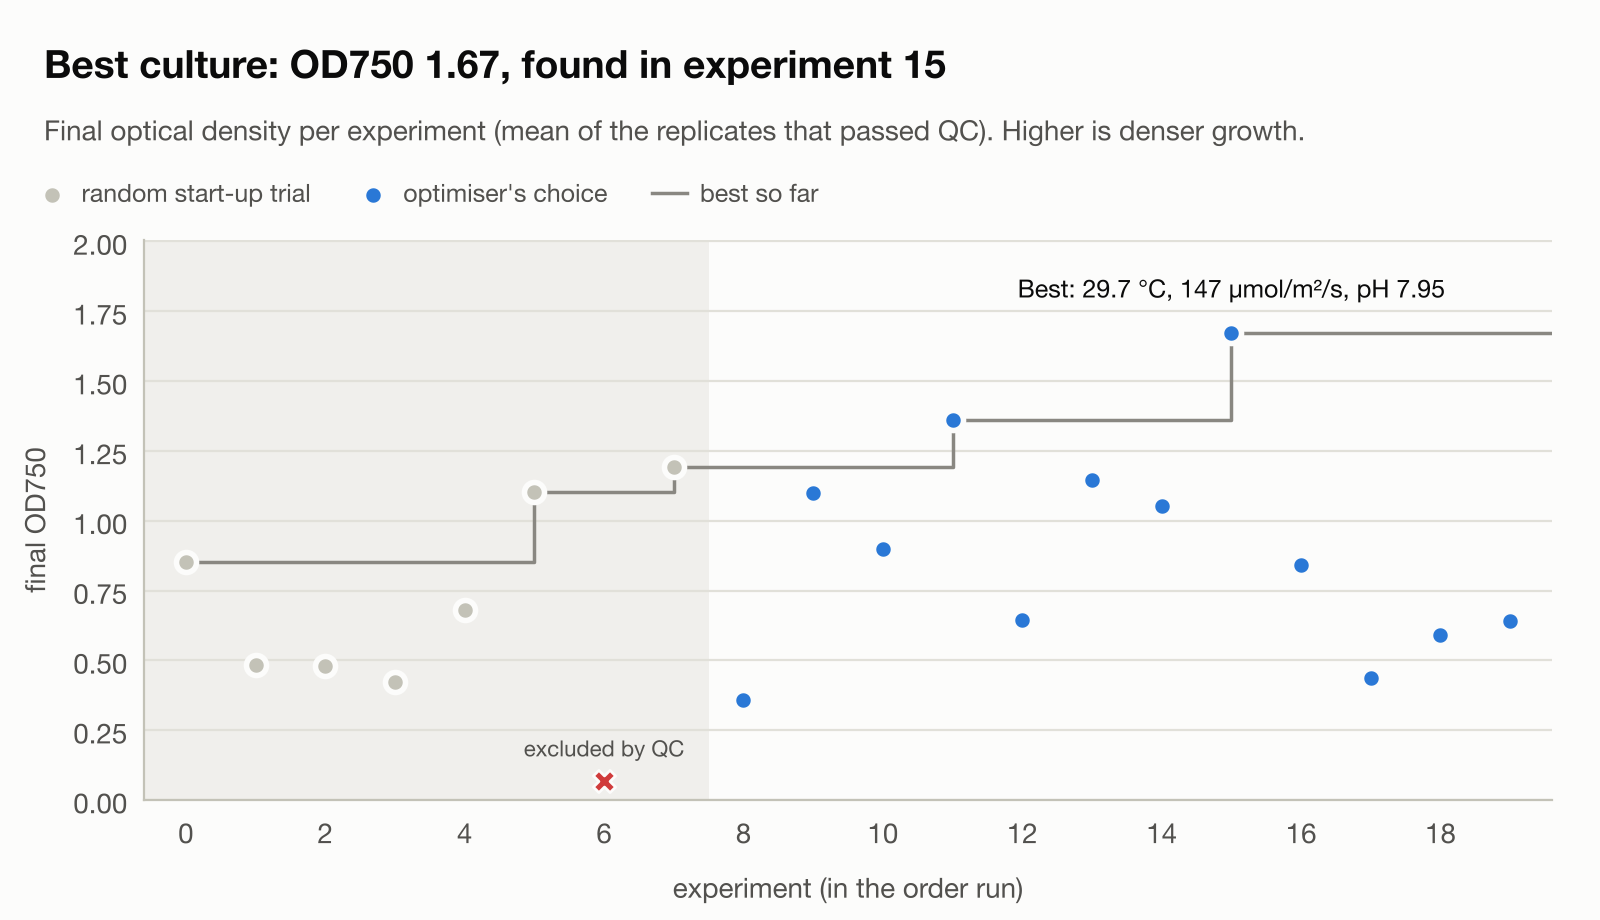
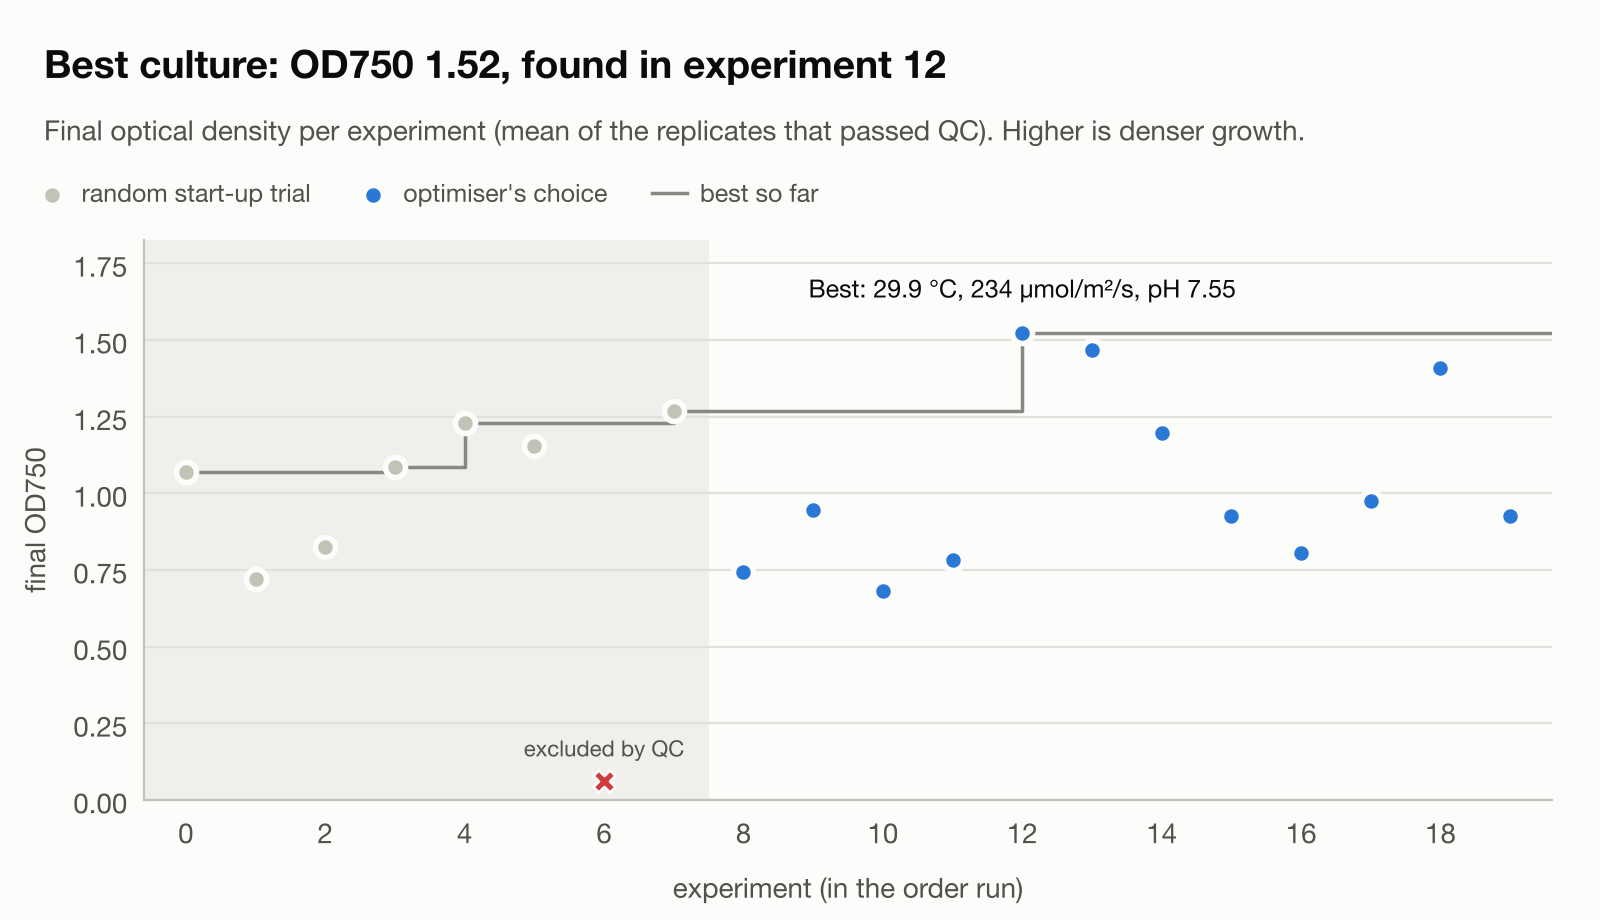
Take Chlorella light curve and pH limits from primary sources
Light: replace the Steele curve with the curve Schwaderer et al. 2011
fitted to C. vulgaris data (Bernard-Remond form; I_opt 142, I_k 23.5), so
bright light costs some growth (0.84 at 400) rather than most (0.46).
pH: cardinal limits 3.0 / 7.5 / 9.0 from Choi & Lee 2011 measurements,
replacing illustrative 5.5 / 7.8 / 10.

New tests pin both curves to the published values. model.md records the
sources, an independent temperature check against Choi & Lee, and where
sources disagree (bright light, pH 9, a stressed-reactor strain).

diff --git a/algae_sim/growth.py b/algae_sim/growth.py
@@ -4,7 +4,9 @@
 
 * f_T: cardinal temperature model with inflection (Rosso et al. 1993), 0 outside
   [t_min, t_max], 1 at t_opt.
-* f_I: Steele photoinhibition curve, peaks at i_opt and declines above it.
+* f_I: light response with photoinhibition (Bernard & Remond 2012 form; "Model 2"
+  in Schwaderer et al. 2011): rises with initial slope set by i_k, is 1 at i_opt,
+  then declines slowly in bright light.
 * f_pH: the pH response, passed in as ``ph_response`` (see ``algae_sim.carbon``);
   1.0 means pH is not modelled.
 * logistic term: crude stand-in for self-shading and nutrient limits.
@@ -17,7 +19,6 @@ not a fit to one strain, and the model itself is still not validated.
 
 from __future__ import annotations
 
-import math
 from dataclasses import dataclass
 
 
@@ -28,9 +29,11 @@ class GrowthParams:
     t_min_c: float = 2.2  # cardinal temperatures: Rossi et al. 2023, mean of 13 data sets
     t_opt_c: float = 28.9
     t_max_c: float = 42.8
-    # Schwaderer et al. 2011 (Haldane fit). The Steele curve with this optimum
-    # over-penalises bright light compared with Pozzobon 2022: pending a better source.
+    # Light curve fitted to C. vulgaris growth data (Dauta et al. 1990) by Schwaderer
+    # et al. 2011, web appendix: I_opt 142.1, mu_max 0.94 /day, alpha 0.040.
     i_opt_umol_m2_s: float = 142.0
+    # i_k = mu_max / alpha: the irradiance scale of the initial slope (0.94 / 0.040).
+    i_k_umol_m2_s: float = 23.5
     carrying_capacity_g_per_l: float = 2.3  # lab batch with CO2 (Griffiths 2011)
     basal_loss_per_h: float = 0.007  # maintenance, C. sorokiniana (Kliphuis et al. 2011)
     heat_stress_loss_per_h_per_c: float = 0.05  # illustrative
@@ -38,8 +41,8 @@ class GrowthParams:
     def __post_init__(self) -> None:
         if not self.t_min_c < self.t_opt_c < self.t_max_c:
             raise ValueError("require t_min < t_opt < t_max")
-        if self.mu_max_per_h <= 0 or self.i_opt_umol_m2_s <= 0:
-            raise ValueError("mu_max and i_opt must be positive")
+        if min(self.mu_max_per_h, self.i_opt_umol_m2_s, self.i_k_umol_m2_s) <= 0:
+            raise ValueError("mu_max, i_opt and i_k must be positive")
         if self.carrying_capacity_g_per_l <= 0:
             raise ValueError("carrying capacity must be positive")
 
@@ -57,11 +60,19 @@ def temperature_factor(temperature_c: float, p: GrowthParams) -> float:
 
 
 def light_factor(intensity_umol_m2_s: float, p: GrowthParams) -> float:
-    """Steele curve; dimensionless, 0..1 with a maximum at i_opt."""
+    """Light response; dimensionless, 0..1 with a maximum of exactly 1 at i_opt.
+
+        f(I) = I / (I + i_k * (I / i_opt - 1) ** 2)
+
+    Chosen over the Steele curve because, with C. vulgaris parameters, Steele drops
+    to 0.46 at 400 umol/m2/s, while measured cultures keep most of their growth
+    in bright light (Pozzobon 2022). Choi & Lee 2011 saw stronger losses; see
+    docs/model.md.
+    """
     if intensity_umol_m2_s <= 0:
         return 0.0
-    ratio = intensity_umol_m2_s / p.i_opt_umol_m2_s
-    return ratio * math.exp(1.0 - ratio)
+    i = intensity_umol_m2_s
+    return i / (i + p.i_k_umol_m2_s * (i / p.i_opt_umol_m2_s - 1.0) ** 2)
 
 
 def gross_rate_per_h(

diff --git a/algae_sim/carbon.py b/algae_sim/carbon.py
@@ -20,8 +20,9 @@ alkalinity. That simplification is acceptable for a control demo, not for
 prediction.
 
 Growth responds to pH with a cardinal pH model (Rosso et al. 1995): 0 at ``ph_min``
-and ``ph_max``, 1 at ``ph_opt``. At high pH the fall-off also stands in for carbon
-limitation, because little dissolved CO2 is left at high pH.
+and ``ph_max``, 1 at ``ph_opt``; values from C. vulgaris data (Choi & Lee 2011).
+At high pH the fall-off also stands in for carbon limitation, because little
+dissolved CO2 is left at high pH.
 """
 
 from __future__ import annotations
@@ -55,16 +56,16 @@ class CarbonParams:
 
 @dataclass(frozen=True, slots=True)
 class PhGrowthParams:
-    """Cardinal pH growth response.
+    """Cardinal pH growth response for C. vulgaris (Choi & Lee 2011).
 
-    ``ph_opt`` matches the C. vulgaris optimum of 7.5-8.0 (Rachlin & Grosso 1991).
-    ``ph_min`` and ``ph_max`` are illustrative, pending a source: the same study
-    reports slowed, not stopped, growth down to pH 3.
+    Measured at pH 3-9: best growth at 7-7.5, still good at 5, cells died at 3 and
+    at 9. Rachlin & Grosso 1991 put the optimum at 7.5-8.0, so 7.5 is where the two
+    agree. At high pH the fall-off also stands in for carbon limitation.
     """
 
-    ph_min: float = 5.5
-    ph_opt: float = 7.8
-    ph_max: float = 10.0
+    ph_min: float = 3.0
+    ph_opt: float = 7.5
+    ph_max: float = 9.0
 
     def __post_init__(self) -> None:
         if not self.ph_min < self.ph_opt < self.ph_max:

diff --git a/tests/test_physics.py b/tests/test_physics.py
@@ -55,6 +55,18 @@ class TestGrowth:
         assert light_factor(GP.i_opt_umol_m2_s, GP) == pytest.approx(1.0)
         assert light_factor(400.0, GP) < light_factor(200.0, GP) < 1.0
 
+    def test_light_curve_matches_the_fitted_chlorella_data(self):
+        # Schwaderer et al. 2011 "Model 2" with C. vulgaris mu_max 0.94 /day,
+        # alpha 0.040, I_opt 142.1: rewritten as a fraction of mu_max.
+        def model_2(i, mu=0.94, alpha=0.040, i_opt=142.1):
+            denominator = (mu / (alpha * i_opt**2)) * i**2 + (1 - 2 * mu / (alpha * i_opt)) * i
+            return (mu * i / (denominator + mu / alpha)) / mu
+
+        for intensity in (25.0, 100.0, 400.0, 800.0):
+            assert light_factor(intensity, GP) == pytest.approx(model_2(intensity), abs=0.01)
+        # Bright light costs some growth, not most of it (Pozzobon 2022).
+        assert light_factor(400.0, GP) > 0.8
+
     def test_growth_stops_at_carrying_capacity(self):
         rate = net_rate_per_h(GP.carrying_capacity_g_per_l, GP.t_opt_c, GP.i_opt_umol_m2_s, GP)
         assert rate == pytest.approx(-GP.basal_loss_per_h)

diff --git a/tests/test_ph.py b/tests/test_ph.py
@@ -29,6 +29,12 @@ class TestChemistry:
         assert ph_factor(7.0, PG) < 1.0 and ph_factor(8.5, PG) < 1.0
         assert ph_factor(6.0, PG) < ph_factor(7.0, PG)
 
+    def test_matches_chlorella_measurements(self):
+        # Choi & Lee 2011: best at 7-7.5, still growing at 5, dead at 3 and at 9.
+        assert ph_factor(7.0, PG) > 0.95 and ph_factor(7.5, PG) == pytest.approx(1.0)
+        assert ph_factor(5.0, PG) > 0.5
+        assert ph_factor(3.0, PG) == ph_factor(9.0, PG) == 0.0
+
     @pytest.mark.parametrize("bad", [dict(ph_min=8.0), dict(ph_max=7.0)])
     def test_rejects_disordered_cardinals(self, bad):
         with pytest.raises(ValueError):

diff --git a/docs/model.md b/docs/model.md
@@ -17,8 +17,8 @@ C = 4180 J/K (about 1 L of water), P = 100 W heater, K = 5 W/K loss to a 20 °C 
     dX/dt = μmax · f_T(T) · f_I(I) · f_pH(pH) · X · (1 − X/Xmax) − loss(T) · X
 
 - **f_T**: cardinal temperature model with inflection (Rosso et al., 1993). It's zero at or below 2.2 °C and at or above 42.8 °C, and 1 at the 28.9 °C optimum.
-- **f_I**: Steele light curve. It's 1 at 142 µmol/m²/s and drops at higher light (photoinhibition). This curve penalises bright light more than *C. vulgaris* shows (see below).
-- **f_pH**: cardinal pH model (Rosso et al., 1995). It's zero at or below pH 5.5 and at or above 10, and 1 at the pH 7.8 optimum (about 0.67 at 6.5 and 0.9 at 8.5). The optimum is sourced; the limits are illustrative. The fall-off at high pH also stands in for carbon limitation.
+- **f_I**: light curve with photoinhibition, f(I) = I / (I + I_k·(I/I_opt − 1)²) (Bernard & Rémond 2012 form; Schwaderer et al. 2011 "Model 2"). It's 1 at I_opt = 142 µmol/m²/s, with I_k = μmax/α = 23.5 µmol/m²/s, and keeps 0.84 of its best at 400 µmol/m²/s.
+- **f_pH**: cardinal pH model (Rosso et al., 1995). It's zero at or below pH 3 and at or above 9, and 1 at the pH 7.5 optimum (about 0.9 at 6.5 and 0.73 at 8.5), from *C. vulgaris* measurements (Choi & Lee 2011). The device's own low-pH trip at 5.5 is a protection limit, separate from the biology. The fall-off at high pH also stands in for carbon limitation.
 - **Crowding**: logistic limit Xmax = 2.3 g/L, a crude stand-in for self-shading and nutrients.
 - **Loss**: 0.007 /h maintenance, plus 0.05 /h per °C above 42.8 °C (heat stress, illustrative). The heater can't reach 42.8 °C, so heat stress only matters in tests.
 - μmax = 0.08 /h (about 1.9 per day), starting biomass 0.05 g/L, batch length 36 h.
@@ -58,16 +58,20 @@ Values are literature-typical for *Chlorella vulgaris*, pooled across strains an
 |---|---|---|---|
 | μmax | 0.08 /h (1.9 /day) | Pozzobon 2022, *Algal Research* 68:102874, doi:10.1016/j.algal.2022.102874 (2.11 /day measured at 25 °C, 200 µmol/m²/s); Rossi et al. 2023 (1.7–2 /day) | High |
 | T_min / T_opt / T_max | 2.2 / 28.9 / 42.8 °C | Rossi, Carecci & Ficara 2023, *Sci. Total Environ.* 873:162275, doi:10.1016/j.scitotenv.2023.162275, Table 3: mean of 13 data sets | High for T_opt; T_min is poorly constrained (range −12 to 13 °C) |
-| I_opt | 142 µmol/m²/s | Schwaderer et al. 2011, doi:10.4319/lo.2011.56.2.0589, as tabulated by López Muñoz & Bernard 2021, *Processes* 9:496 | Medium: a Haldane-fit optimum used in a Steele curve |
+| Light curve: I_opt, I_k | 142 µmol/m²/s, 23.5 µmol/m²/s | Schwaderer et al. 2011, *Limnol. Oceanogr.* 56:589, doi:10.4319/lo.2011.56.2.0589, web appendix: *C. vulgaris* fit (μmax 0.94 /day, α 0.040, I_opt 142.1) to Dauta et al. 1990 data, with the same curve form | High for the form and fit; see the light disagreement below |
 | CO₂ per g biomass | 1.83 g/g | Chisti 2007, *Biotechnol. Adv.* 25:294, doi:10.1016/j.biotechadv.2007.02.001 (about 50 % carbon); *C. vulgaris* measured at 48 % (Griffiths 2011 thesis) | High for nitrogen-replete cultures (±20 % with nitrogen status) |
 | OD750 per g/L | 3.2 | Griffiths et al. 2011, *J. Microbiol. Methods* 85:119, doi:10.1016/j.mimet.2011.02.005 | Medium: calibrations vary with pigment and instrument |
 | Xmax | 2.3 g/L | Griffiths 2011 thesis: lab airlift reactor, 0.29 % CO₂, 250 µmol/m²/s | Medium |
 | Maintenance loss | 0.007 /h | Kliphuis et al. 2011, doi:10.1007/s10811-010-9614-7, measured on *C. sorokiniana* | Low–medium (close relative, 37 °C) |
-| pH_opt | 7.8 | Rachlin & Grosso 1991, doi:10.1007/BF01065839 (optimum 7.5–8.0) | Medium (abstract only) |
+| pH_min / pH_opt / pH_max | 3.0 / 7.5 / 9.0 | Choi & Lee 2011, *J. Korean Soc. Environ. Eng.* 33:511, doi:10.4491/KSEE.2011.33.7.511: growth at pH 3–9, best at 7–7.5, cells died at 3 and 9; Rachlin & Grosso 1991, doi:10.1007/BF01065839, optimum 7.5–8.0 | Medium: one study for the limits |
 
-**Known gaps** (sources identified, full text not yet read):
-- **Bright light:** Pozzobon 2022 measured *C. vulgaris* still growing at about 60 % of its best rate at 4000 µmol/m²/s, but the Steele curve gives 46 % at 400. A Haldane curve with half-saturation and inhibition constants from Schwaderer et al. 2011 or Bernard & Rémond 2012 (doi:10.1016/j.biortech.2012.07.022) would fit better.
-- **pH limits:** Rachlin & Grosso report slowed, not stopped, growth from pH 3.0 to 6.2, so the real pH_min is probably well below 5.5.
-- **Temperature:** Serra-Maia et al. 2016 (doi:10.1016/j.algal.2016.06.016) is a direct *C. vulgaris* temperature study that could replace the pooled values.
-- **Light through a dense culture:** not modelled; Yun & Park 2001 (doi:10.1007/s002530100639) has *C. vulgaris* attenuation data.
+**Independent check.** Choi & Lee 2011 measured *C. vulgaris* growth at 10–35 °C, data the temperature values were not taken from. Relative to its best rate it gives 0.17, 0.57, 0.75, 0.96, 1.00 and 0.88 at 10, 15, 20, 25, 30 and 35 °C; the model gives 0.21, 0.48, 0.75, 0.94, 1.00 and 0.83.
+
+**Where sources disagree:**
+- **Bright light.** Pozzobon 2022 supports the fitted curve (growth continues at very high light). Choi & Lee 2011 saw stronger losses above 200 µmol/m²/s in batch flasks, closer to a Steele curve. The fitted curve comes from a dedicated light-response study, so it is used.
+- **pH 9.** Choi & Lee report cells dying at pH 9; Rachlin & Grosso's abstract reports slowed, not stopped, growth at 8.3–9.0.
+- **Temperature in a stressed reactor.** Serra-Maia et al. 2016, *Algal Res.* 18:352, doi:10.1016/j.algal.2016.06.016: strain CCAP 211/11B in a bubble-column photobioreactor peaked near 23 °C and stopped growing by 30 °C. The authors attribute this to reactor stress (high oxygen, mortality), since cells in gentler conditions survived 35 °C. Their measured carbon content, 48.5–53 % of dry weight, supports the CO₂ value.
+- **Cross-check, other species.** Bernard & Rémond 2012, doi:10.1016/j.biortech.2012.07.022, fit 5.2 / 38.7 / 45.8 °C for a high-temperature *C. pyrenoidosa* strain.
+
+**Not modelled:** light through a dense culture (Yun & Park 2001, doi:10.1007/s002530100639, has *C. vulgaris* attenuation data).
 - **Illustrative, no source sought:** the carbonate buffer, air-equilibrium pH, heat-stress loss, thermal and instrument values.

diff --git a/README.md b/README.md
@@ -18,7 +18,7 @@ One demo campaign: 20 experiments × 3 replicate reactors = 60 simulated 36-hour
 
 <picture>
   <source media="(prefers-color-scheme: dark)" srcset="docs/images/progress-dark.png">
-  <img alt="Final OD750 per experiment: random start-up trials, then the optimiser's choices, with the best result so far rising to OD 1.67" src="docs/images/progress.png">
+  <img alt="Final OD750 per experiment: random start-up trials, then the optimiser's choices, with the best result so far rising to OD 1.52" src="docs/images/progress.png">
 </picture>
 
 <picture>
@@ -31,7 +31,7 @@ One demo campaign: 20 experiments × 3 replicate reactors = 60 simulated 36-hour
   <img alt="Pass or fail for every reactor in every experiment, with the reason for each failure" src="docs/images/qc.png">
 </picture>
 
-> Growth parameters are drawn from published *Chlorella vulgaris* literature, with every source and its confidence listed in [the model notes](docs/model.md#where-the-numbers-come-from). They are literature-typical values, not a fit to one strain, and some (pH limits, the carbonate buffer) are still illustrative. The model is **not validated**; nothing here predicts real algae behaviour. AutoLab's evidence marks every reading as coming from a simulated sensor.
+> Growth parameters are drawn from published *Chlorella vulgaris* literature, with every source and its confidence listed in [the model notes](docs/model.md#where-the-numbers-come-from). They are literature-typical values, not a fit to one strain; the carbonate buffer is still illustrative. The model is **not validated**; nothing here predicts real algae behaviour. AutoLab's evidence marks every reading as coming from a simulated sensor.
 
 ## Quick start
 

diff --git a/docs/progress.md b/docs/progress.md
@@ -8,6 +8,14 @@ algae-sim speaks AutoLab's **culture contract v2** and is pinned to AutoLab `e9f
 
 Next: the Azure version of the pipeline, with Steven closely involved (account, region, Data Explorer vs SQL, cost guard and teardown). See [data-pipeline.md](data-pipeline.md). A dashboard and write-up follow once the architecture settles.
 
+## 2026-11-11 — Chlorella light and pH from primary sources
+
+- Read the full texts through Steven's OU Library access (values and citations only go into the repo): Choi & Lee 2011, Serra-Maia et al. 2016, Schwaderer et al. 2011 (web appendix), Bernard & Rémond 2012.
+- **Decision:** replace the Steele light curve with the curve Schwaderer et al. fitted to *C. vulgaris* data (I_opt 142, I_k 23.5). Bright light now costs some growth (0.84 at 400 µmol/m²/s) rather than most of it (0.46).
+- **Decision:** pH limits 3.0 / 7.5 / 9.0 from Choi & Lee's measurements (was 5.5 / 7.8 / 10, illustrative). Low pH is no longer bad for growth, only expensive in CO₂; high pH is now the risky side.
+- **Finding:** Choi & Lee's temperature data, which the model was not built from, matches the pooled temperature curve to within about 0.1 at every point.
+- **Finding:** the demo's best culture is now 29.9 °C, 234 µmol/m²/s, pH 7.55, and the optimiser concentrates on pH 7.3–7.85. All four faults still fail QC.
+
 ## 2026-11-11 — Chlorella vulgaris parameters
 
 - **Decision:** replace illustrative growth values with published *C. vulgaris* values, each cited with a confidence level in model.md. They are literature-typical, pooled across strains, not a fit to one strain; the model is still not validated.
